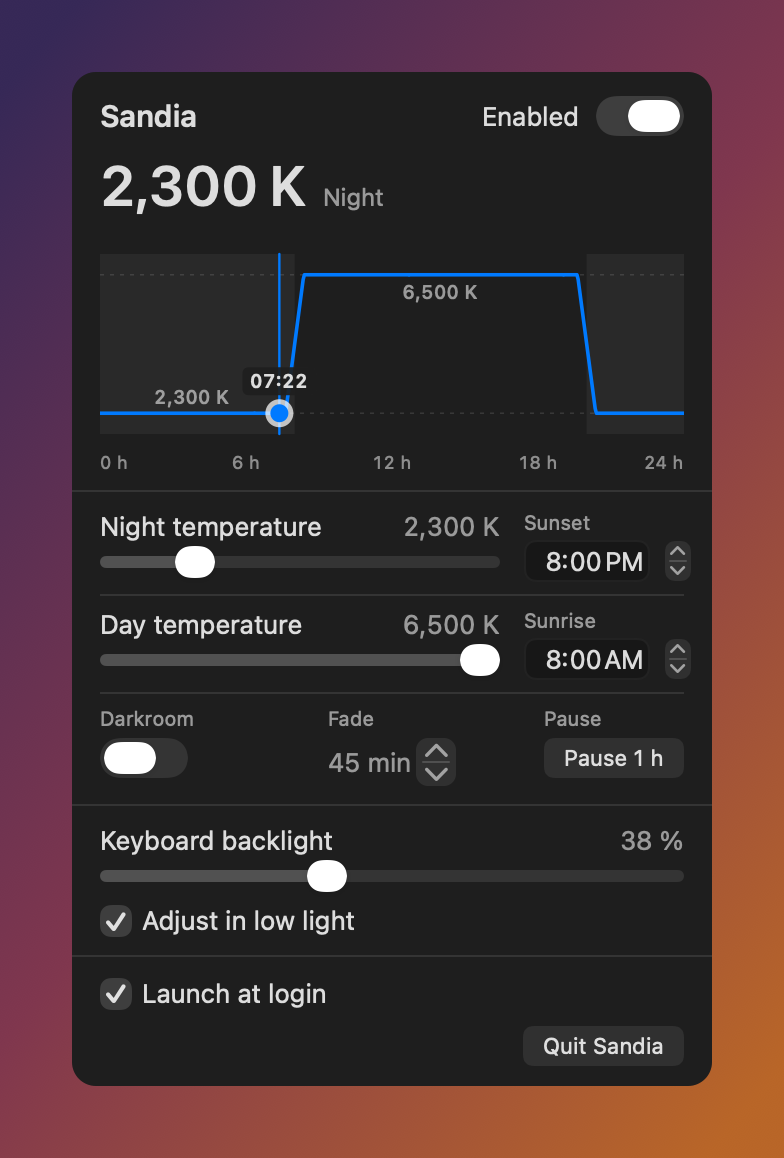
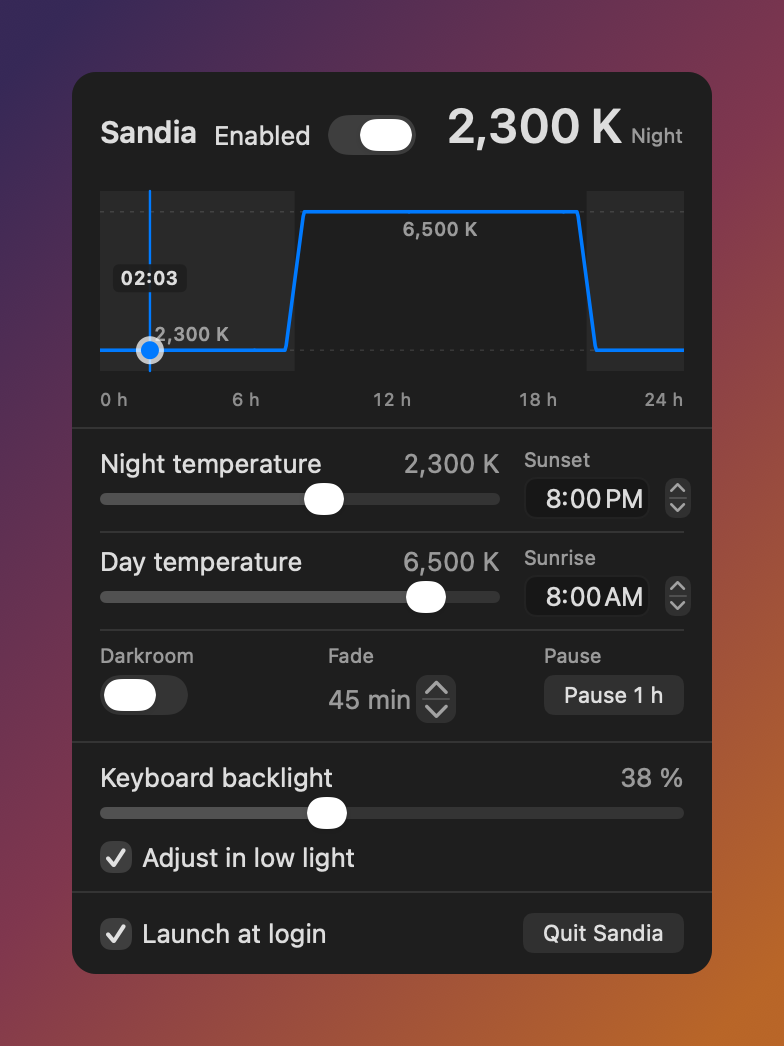
build: version 0.4.0 et capture du panneau à jour
MARKETING_VERSION passe à 0.4.0, build 5 ; le projet est régénéré par
xcodegen, seule la version change.

Les deux README annoncent les 78 tests et la commande de capture inclut
ScrollWheelSlider.swift, sans quoi le harnais ne compile plus. La capture
est régénérée depuis le panneau réel, en anglais, avec l'en-tête et le
pied sur une ligne.

diff --git a/scripts/screenshot.swift b/scripts/screenshot.swift
@@ -10,6 +10,7 @@
 //       Sources/SandiaCore/*.swift \
 //       Sources/Sandia/Preferences.swift \
 //       Sources/Sandia/PanelView.swift \
+//       Sources/Sandia/ScrollWheelSlider.swift \
 //       Sources/Sandia/CurveView.swift \
 //       Sources/Sandia/Localization.swift \
 //       scripts/screenshot.swift -o .build/screenshot
@@ -54,6 +55,7 @@ struct Screenshot {
         model.launchAtLoginAvailable = true
 
         let actions = PanelActions(
+            setDayKelvin: { _ in },
             setNightKelvin: { _ in },
             setDarkroom: { _ in },
             togglePause: {},

diff --git a/README.md b/README.md
@@ -15,9 +15,10 @@ macOS 15 (Sequoia) or later. The app must live in `/Applications`: that is what 
 ## Features
 
 - A 24-hour temperature curve with a readable time marker.
-- Adjustable night and day temperatures, from 1,200 K to 6,500 K.
+- Adjustable night and day temperatures, from 1,000 K to 12,000 K, neutral at 6,504 K (D65).
 - A gradual fade around sunset and sunrise.
 - A one-hour pause that leaves the curve untouched.
+- Mouse wheel and trackpad scroll adjust the slider under the pointer.
 - **Darkroom**: a very dim red screen for the night.
 - Keyboard backlight, including automatic adjustment in low light.
 - Launch at login.
@@ -38,7 +39,7 @@ xcodegen generate
 xcodebuild -project Sandia.xcodeproj -scheme Sandia -configuration Release build
 ```
 
-Tests (61):
+Tests (78):
 
 ```sh
 swift test
@@ -62,6 +63,7 @@ swift build -c debug
 BIN=$(swift build -c debug --show-bin-path)
 swiftc -swift-version 5 -I "$BIN" \
     Sources/Sandia/Preferences.swift Sources/Sandia/PanelView.swift \
+    Sources/Sandia/ScrollWheelSlider.swift \
     Sources/Sandia/CurveView.swift Sources/Sandia/Localization.swift \
     scripts/screenshot.swift "$BIN/SandiaCore.o" -o .build/screenshot
 .build/screenshot docs/screenshot.png -AppleLocale en_US -AppleLanguages '(en)'
